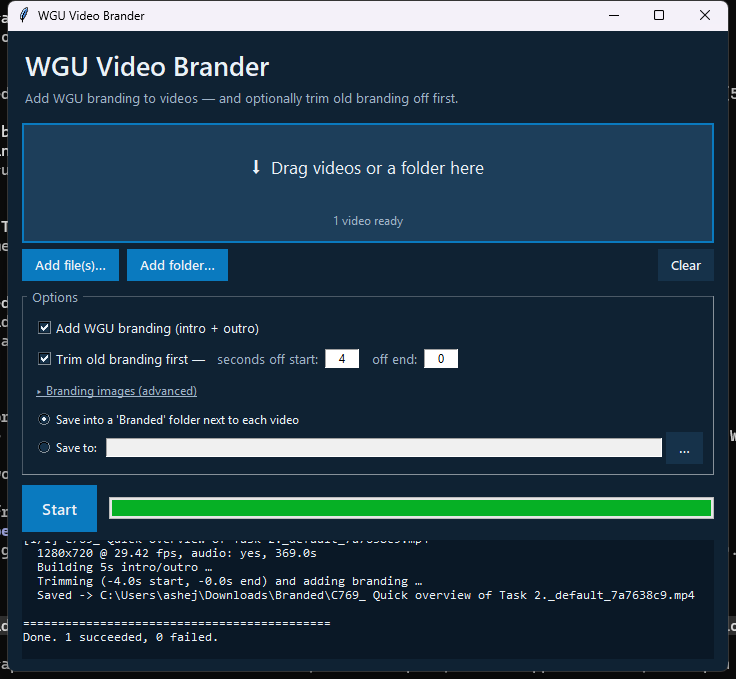
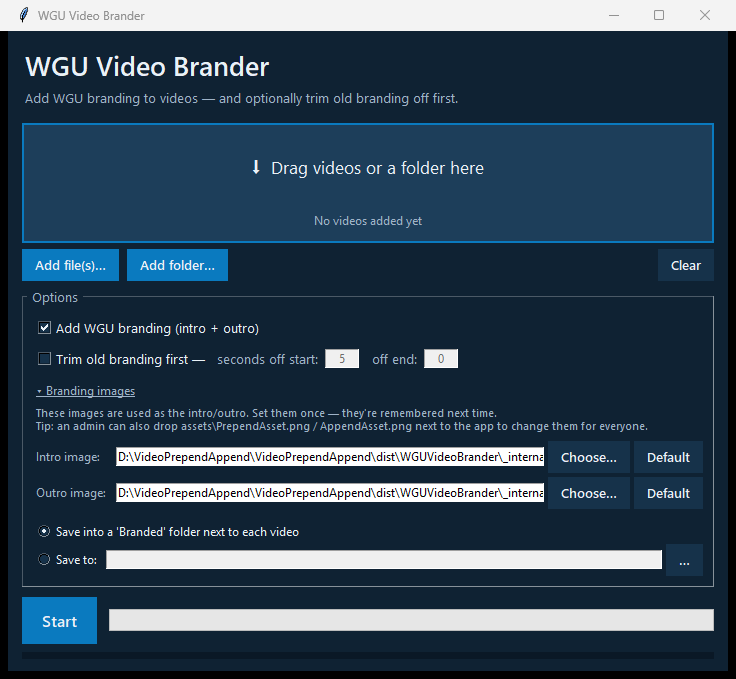
Persist chosen branding images and document the update path
- The branding image picker is now visible by default (not hidden under
  "advanced") with per-image Choose…/Default buttons.
- Chosen intro/outro images are saved to a per-user settings file and
  restored on next launch, so the real WGU art can be set once.
- Resource lookup now prefers the .exe's own folder, so an admin can drop
  an assets/ folder next to WGUVideoBrander.exe to override the bundled
  images without rebuilding.
- .gitignore: stop ignoring branding images; assets/*.png are committed so
  the real art travels with the repo.
- README: document the maintainer workflow for updating branding and a new
  "Do updated images reach existing users?" section explaining that images
  are baked in at build time (rebuild/release, drop-in, or in-app picker).

diff --git a/core.py b/core.py
@@ -65,10 +65,13 @@ def resource_dirs() -> list:
     """
     dirs = []
     if getattr(sys, "frozen", False):
+        # The .exe's own folder comes FIRST so drop-in overrides (an 'assets'
+        # or 'ffmpeg' folder placed next to the app) take priority over the
+        # copies baked into the bundle.
+        dirs.append(os.path.dirname(sys.executable))
         meipass = getattr(sys, "_MEIPASS", None)
         if meipass:
             dirs.append(meipass)
-        dirs.append(os.path.dirname(sys.executable))
     else:
         dirs.append(os.path.dirname(os.path.abspath(__file__)))
     # De-duplicate while preserving order.
@@ -138,9 +141,73 @@ def ffmpeg_available() -> bool:
 
 
 def default_asset(name: str) -> str:
-    """Return the path to a bundled default branding asset, or '' if missing."""
+    """
+    Return the path to the default branding asset *name*.
+
+    resource_path() searches the .exe's own folder before the bundled copy,
+    so an admin can override the placeholders by dropping real images into an
+    'assets' folder next to WGUVideoBrander.exe -- no rebuild required.
+    Returns '' if not found anywhere.
+    """
     p = resource_path("assets", name)
     return p if os.path.isfile(p) else ""
+
+
+# ---------------------------------------------------------------------------
+# Persistent settings (so chosen branding images stick between sessions)
+# ---------------------------------------------------------------------------
+
+def config_dir() -> str:
+    """Per-user folder for storing settings."""
+    if os.name == "nt":
+        base = os.environ.get("APPDATA") or os.path.expanduser("~")
+    else:
+        base = os.environ.get("XDG_CONFIG_HOME") or os.path.expanduser("~/.config")
+    d = os.path.join(base, "WGUVideoBrander")
+    return d
+
+
+def _settings_path() -> str:
+    return os.path.join(config_dir(), "settings.json")
+
+
+def load_settings() -> dict:
+    """Load persisted settings; return {} if none/unreadable."""
+    try:
+        with open(_settings_path(), "r", encoding="utf-8") as f:
+            data = json.load(f)
+            return data if isinstance(data, dict) else {}
+    except (OSError, ValueError):
+        return {}
+
+
+def save_settings(settings: dict) -> None:
+    """Persist *settings* (best-effort; ignores write errors)."""
+    try:
+        os.makedirs(config_dir(), exist_ok=True)
+        with open(_settings_path(), "w", encoding="utf-8") as f:
+            json.dump(settings, f, indent=2)
+    except OSError:
+        pass
+
+
+def active_branding() -> tuple:
+    """
+    Return (prepend_path, append_path) to use as the current branding.
+
+    Preference: a saved custom image (if it still exists) -> the default
+    (drop-in override next to the .exe, else the bundled placeholder).
+    """
+    settings = load_settings()
+    result = []
+    for key, default_name in (("prepend", DEFAULT_PREPEND_ASSET),
+                             ("append", DEFAULT_APPEND_ASSET)):
+        saved = settings.get(key)
+        if saved and os.path.isfile(saved):
+            result.append(saved)
+        else:
+            result.append(default_asset(default_name))
+    return tuple(result)
 
 
 # ---------------------------------------------------------------------------

diff --git a/gui.py b/gui.py
@@ -82,10 +82,11 @@ class BranderApp:
 
         # State ------------------------------------------------------------
         self.selected_paths = []            # files/folders the user added
-        self.prepend_path = tk.StringVar(value=core.default_asset(
-            core.DEFAULT_PREPEND_ASSET))
-        self.append_path = tk.StringVar(value=core.default_asset(
-            core.DEFAULT_APPEND_ASSET))
+        # Start from the saved custom branding (falls back to the bundled
+        # default / drop-in override).
+        saved_prepend, saved_append = core.active_branding()
+        self.prepend_path = tk.StringVar(value=saved_prepend)
+        self.append_path = tk.StringVar(value=saved_append)
         self.add_branding = tk.BooleanVar(value=True)
         self.do_trim = tk.BooleanVar(value=False)
         self.trim_start = tk.StringVar(value="5")
@@ -174,17 +175,28 @@ class BranderApp:
                              justify="center")
         self.e_end.pack(side="left")
 
-        # --- Branding images (power users, collapsible) ------------------
+        # --- Branding images (collapsible, open by default) --------------
         self.brand_open = tk.BooleanVar(value=False)
         self.brand_toggle = tk.Label(
-            opts, text="▸ Branding images (advanced)", bg=BG, fg=MUTED,
+            opts, text="▾ Branding images", bg=BG, fg=MUTED,
             font=("Segoe UI", 9, "underline"), cursor="hand2")
-        self.brand_toggle.pack(anchor="w", padx=10, pady=(0, 4))
+        self.brand_toggle.pack(anchor="w", padx=10, pady=(0, 2))
         self.brand_toggle.bind("<Button-1>", lambda e: self._toggle_brand())
 
         self.brand_panel = tk.Frame(opts, bg=BG)
-        self._brand_row(self.brand_panel, "Intro image:", self.prepend_path)
-        self._brand_row(self.brand_panel, "Outro image:", self.append_path)
+        tk.Label(self.brand_panel,
+                 text="These images are used as the intro/outro. Set them once "
+                      "— they're remembered next time.\nTip: an admin can also "
+                      "drop assets\\PrependAsset.png / AppendAsset.png next to "
+                      "the app to change them for everyone.",
+                 bg=BG, fg=MUTED, font=("Segoe UI", 8), justify="left").pack(
+            anchor="w", pady=(0, 4))
+        self._brand_row(self.brand_panel, "Intro image:", self.prepend_path,
+                       core.DEFAULT_PREPEND_ASSET)
+        self._brand_row(self.brand_panel, "Outro image:", self.append_path,
+                       core.DEFAULT_APPEND_ASSET)
+        # Open it by default so the branding images are easy to find.
+        self._toggle_brand()
 
         # --- Output ------------------------------------------------------
         outf = tk.Frame(opts, bg=BG)
@@ -223,15 +235,40 @@ class BranderApp:
 
         self._sync_enable()
 
-    def _brand_row(self, parent, label, var):
+    def _brand_row(self, parent, label, var, default_name):
         row = tk.Frame(parent, bg=BG)
         row.pack(fill="x", pady=2)
         tk.Label(row, text=label, bg=BG, fg=MUTED, width=11, anchor="w",
                  font=("Segoe UI", 9)).pack(side="left")
         tk.Entry(row, textvariable=var).pack(
             side="left", fill="x", expand=True, padx=(0, 4))
-        self._mkbtn(row, "…", lambda: self._browse_image(var), subtle=True).pack(
-            side="left")
+        self._mkbtn(row, "Choose…", lambda: self._browse_image(var),
+                   subtle=True).pack(side="left")
+        self._mkbtn(row, "Default",
+                   lambda: self._reset_image(var, default_name),
+                   subtle=True).pack(side="left", padx=(4, 0))
+
+    def _settings_key(self, var):
+        return "prepend" if var is self.prepend_path else "append"
+
+    def _persist_branding(self, var):
+        """Save the current value of *var* to settings (or clear if default)."""
+        settings = core.load_settings()
+        key = self._settings_key(var)
+        default_name = (core.DEFAULT_PREPEND_ASSET if key == "prepend"
+                       else core.DEFAULT_APPEND_ASSET)
+        value = var.get()
+        # If it points at the bundled default, don't pin it -- let the app keep
+        # following the default/override automatically.
+        if value and value != core.default_asset(default_name):
+            settings[key] = value
+        else:
+            settings.pop(key, None)
+        core.save_settings(settings)
+
+    def _reset_image(self, var, default_name):
+        var.set(core.default_asset(default_name))
+        self._persist_branding(var)
 
     def _mkbtn(self, parent, text, cmd, subtle=False, big=False):
         bg = PANEL if subtle else ACCENT
@@ -250,10 +287,10 @@ class BranderApp:
     def _toggle_brand(self):
         if self.brand_open.get():
             self.brand_panel.pack_forget()
-            self.brand_toggle.configure(text="▸ Branding images (advanced)")
+            self.brand_toggle.configure(text="▸ Branding images")
         else:
             self.brand_panel.pack(fill="x", padx=10, pady=(0, 6))
-            self.brand_toggle.configure(text="▾ Branding images (advanced)")
+            self.brand_toggle.configure(text="▾ Branding images")
         self.brand_open.set(not self.brand_open.get())
 
     def _on_drop(self, event):
@@ -286,6 +323,7 @@ class BranderApp:
                       ("All files", "*.*")])
         if f:
             var.set(f)
+            self._persist_branding(var)
 
     def _add_paths(self, paths):
         for p in paths:

diff --git a/README.md b/README.md
@@ -45,11 +45,18 @@ Grab the latest **`WGUVideoBrander.zip`** from the
 6. By default, finished videos are saved into a **`Branded`** folder next to
    each source video. (You can pick a different output folder in **Options**.)
 
-### Advanced: custom branding images
+### Setting the branding images
 
-The app ships with the WGU intro/outro built in. To use different images,
-expand **Branding images (advanced)** in Options and choose your own intro and
-outro image (PNG/JPG). These are shown full-screen for 5 seconds each.
+The app ships with **placeholder** intro/outro images. To use the real WGU art,
+open **Branding images** in Options and click **Choose…** for the intro and
+outro (PNG/JPG). Your choices are **remembered** the next time you open the app.
+Click **Default** to go back to the built-in image. Each image is shown
+full-screen for 5 seconds.
+
+**Admin tip — set the branding for everyone without rebuilding:** create an
+`assets` folder next to `WGUVideoBrander.exe` containing `PrependAsset.png` and
+`AppendAsset.png`. Those override the built-in placeholders for every user of
+that copy.
 
 ### Supported video formats
 
@@ -99,10 +106,11 @@ python -m pip install -r requirements.txt
 python get_ffmpeg.py
 ```
 
-### Put in the real branding images (optional)
+### Put in the real branding images
 
-Replace the placeholder images in **`assets/`** with the official WGU art,
-keeping the same filenames:
+The repo ships with **placeholder** intro/outro images so it builds out of the
+box. To ship the real branding, the **repo owner/maintainer** replaces these
+two committed files with the official WGU art, keeping the same filenames:
 
 ```
 assets\PrependAsset.png   <- shown at the START of every video
@@ -110,6 +118,12 @@ assets\AppendAsset.png    <- shown at the END of every video
 ```
 
 Full-HD (1920×1080) PNGs work best; the app scales them to match each video.
+
+> These files are **committed to the repo** (they are *not* in `.gitignore`),
+> so the real art travels with the project. After replacing them, commit the
+> change and **rebuild/publish a new release** — see
+> ["Do updated images reach existing users?"](#do-updated-images-reach-existing-users)
+> for how the update actually reaches people.
 
 ### Build
 
@@ -124,6 +138,26 @@ python -m PyInstaller WGUVideoBrander.spec --noconfirm
 The finished app appears in **`dist\WGUVideoBrander\`**. Zip that folder (or
 share it as-is) and hand it to users — everything they need, including ffmpeg,
 is inside.
+
+---
+
+## Do updated images reach existing users?
+
+**Short answer: not automatically.** The branding images are baked into the
+`.exe` when it is built. If the maintainer updates the images in the repo, that
+only changes **future builds** — copies people already downloaded keep their
+old branding. To roll out new branding, use one of these:
+
+| Method | Who does it | Reaches whom |
+|---|---|---|
+| **Rebuild + publish a new release**, users re-download | maintainer | everyone who updates |
+| **Drop `assets\PrependAsset.png` / `AppendAsset.png` next to the `.exe`** | local admin | that one copy/machine |
+| **In-app "Branding images → Choose…"** (remembered between sessions) | each user | that user |
+
+If you want branding to **auto-update from the repo** — the maintainer updates
+the images once and every user's app pulls them on next launch — that needs an
+extra feature (the app downloading the images from the repo's raw URL at
+startup). It isn't built yet; it's a straightforward addition if desired.
 
 ---
 